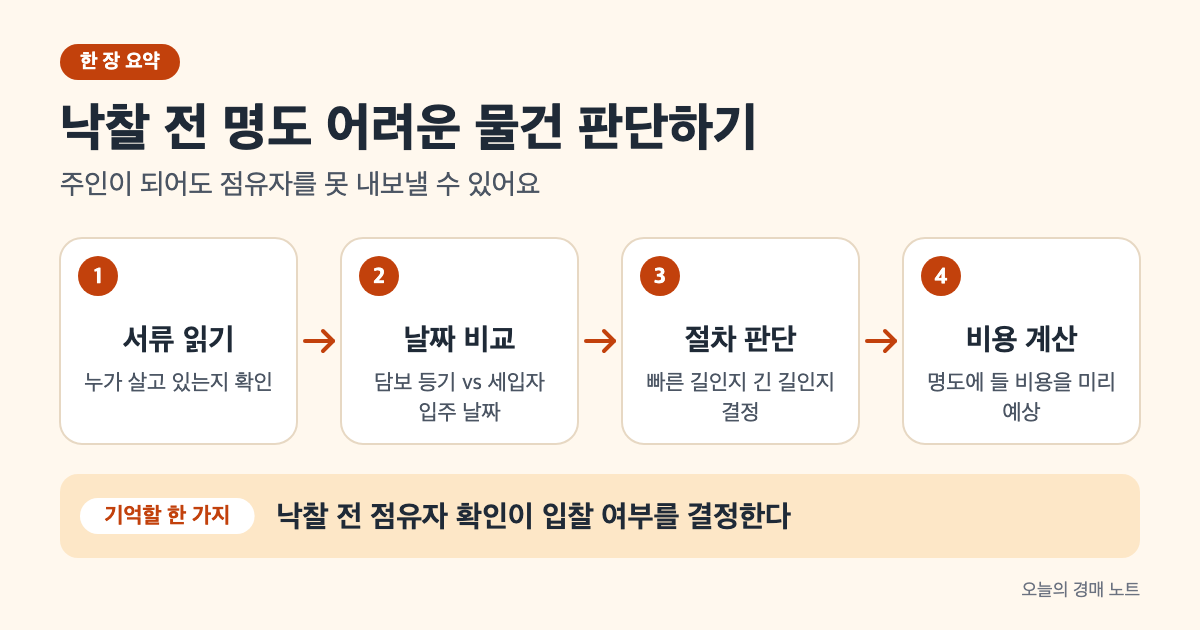
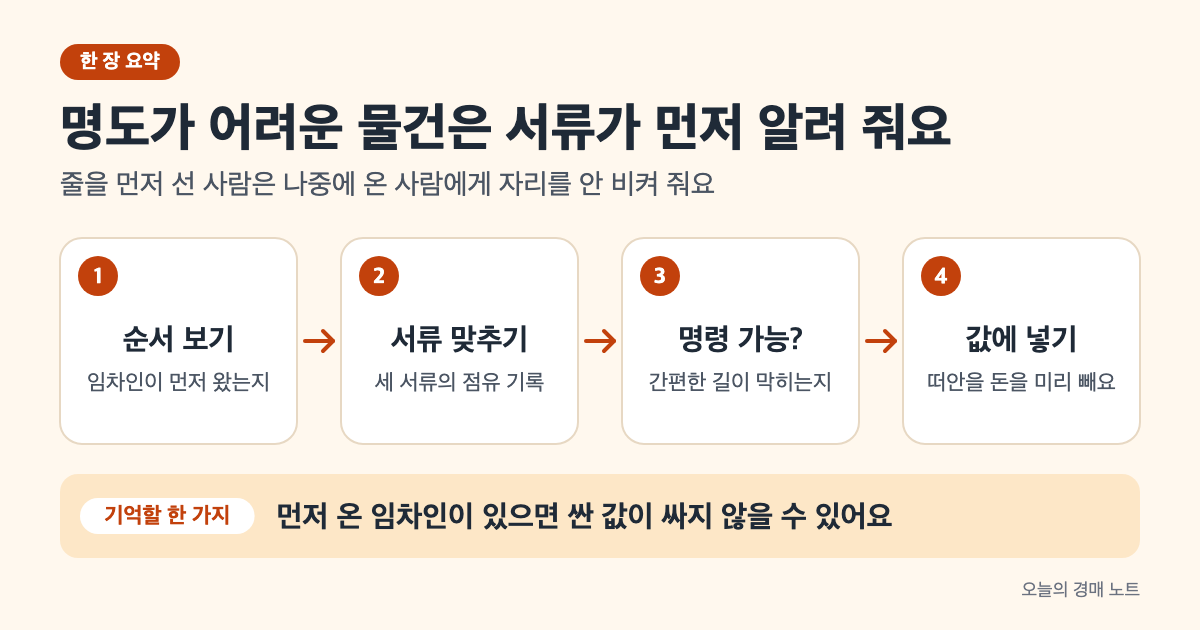
가이드 정리: 명도 어려운 물건 — 대항력 판단 오류 바로잡고 법령·실제 사례로 재작성

diff --git a/content/guide/difficult-eviction-auction-property/index.md b/content/guide/difficult-eviction-auction-property/index.md
@@ -2,124 +2,85 @@
 title: "경매 명도 어려운 물건, 낙찰 전 신호들"
 author: "rich-batch"
 date: 2026-09-19
-lastmod: 2026-09-19
+lastmod: 2026-10-11
 draft: true
 volatile: false
 categories: ["권리분석·명도"]
-tags: ["명도", "경매 위험", "세입자", "강제집행"]
-description: "경매 낙찰 후 명도가 길어지는 물건을 입찰 전에 판단하는 법. 등기부등본·현황조사보고서 읽기와 체크리스트."
+tags: ["명도", "대항력", "임차인", "말소기준권리", "현황조사보고서", "인도명령"]
+description: "명도가 길어지는 물건은 입찰 전에 서류로 드러납니다. 임차인의 전입일과 말소기준권리의 순서, 서류끼리 어긋나는 점유 기록, 인도명령을 쓸 수 없는 경우를 법령과 실제 공매 사례로 봅니다."
 cover:
   image: "eli5-overview.png"
-  alt: "경매 명도 절차의 네 가지 경로를 비유로 보여주는 한 장 요약"
-  caption: "대항력 있는 임차인, 무단점유자, 기간에 따라 절차가 달라지고 비용도 몇 배 차이난다"
+  alt: "전입일 순서, 서류 대조, 인도명령 가능 여부, 입찰가 반영의 네 단계를 화살표로 이은 도식"
+  caption: "명도가 어려운 물건은 입찰 전에 서류에서 먼저 신호를 보냅니다"
 showToc: true
 TocOpen: true
 ---
 
-경매로 집을 사려고 찾아본 물건 중에 낙찰가가 유달리 싼 게 있습니다. 주변 시세의 [30~40%](https://albup.co.kr/page/column_detail.php?content_id=572)에 불과할 때도 있죠. 왜일까요? 대부분은 **현재 거주하는 세입자나 무단점유자 때문입니다.** 당신이 낙찰받아도 그 물건은 여전히 남의 손에 있다는 뜻이고, 명도(비우기)하는 데 수개월이 걸릴 수 있다는 뜻입니다.
+명도가 오래 걸리는 물건은 대부분 입찰 전에 서류에서 신호를 보냅니다. 가장 큰 신호는 집에 사는 임차인이 **말소기준권리보다 먼저** 전입하고 집을 넘겨받았는지예요. 그런 임차인은 대항력이 있어 보증금을 다 돌려받기 전까지 낙찰자에게 집을 내주지 않아도 되고, 낙찰자는 인도명령이라는 간편한 절차도 쓸 수 없습니다([주택임대차보호법 제3조의5](https://www.law.go.kr/법령/주택임대차보호법/제3조의5) · [민사집행법 제136조](https://www.law.go.kr/법령/민사집행법/제136조)).
 
-**이 글의 절차와 비용은 2026년 9월 19일 기준 공식 자료로 확인했습니다.**
-
-낙찰 전에 이 물건이 얼마나 명도하기 어려울지 미리 판단했다면, 그 기간 동안 발생할 비용과 스트레스를 피할 수 있습니다. 그 신호가 뭘까요? 등기부등본의 날짜부터 읽으면 됩니다.
+순서를 반대로 알고 있는 경우가 많아 짚고 갑니다. 근저당이 먼저 설정되고 그 **뒤에** 전입한 임차인은 매각으로 권리가 소멸하는 쪽이에요. 이 글은 2026년 10월 11일 기준 법령과 이 블로그의 실제 분석 사례로 입찰 전에 볼 신호를 정리했고, 낙찰 후 인도명령·강제집행 절차는 [경매 명도 절차, 인도명령부터 집행까지]({{< relref "/guide/auction-eviction-process" >}})에서 다룹니다.
 
 > **핵심 요약**
-> - 낙찰 전에 등기부등본·매각물건명세서·현황조사보고서를 읽고 점유자 정보를 확인하세요
-> - 근저당 설정일 **이후**에 전입한 임차인은 법으로 보호받아 [인도명령 신청이 불가능](https://easylaw.go.kr/CSP/CnpClsMain.laf?csmSeq=306&ccfNo=5&cciNo=1&cnpClsNo=2)합니다
-> - [명도에 5~8개월이 걸리고](https://ujsdp.com/bbs/board.php?bo_table=dp_law&wr_id=5535) [강제집행 비용만 200~500만 원 이상](https://albup.co.kr/page/column_detail.php?content_id=572) 들기도 합니다
+> - 임차인의 전입일(정확히는 다음 날)이 말소기준권리보다 빠르면 대항력이 있어, 못 받은 보증금은 낙찰자가 떠안고 인도명령도 쓸 수 없습니다.
+> - 매각물건명세서·현황조사보고서·전입세대확인서의 점유 기록이 서로 어긋나면 그 자체가 신호입니다.
 
-## 명도 어려운 물건을 말하는 신호들
+## 첫 신호: 전입일이 말소기준권리보다 빠른가
 
-낙찰가가 현저히 낮으면, 보통 명도 때문입니다. 첫 번째 신호는 **근저당 설정일과 임차인 전입일의 순서**입니다.
+주택 임차인은 집을 넘겨받고 전입신고를 마치면 **그 다음 날**부터 제3자에게 임차권을 주장할 수 있습니다([주택임대차보호법 제3조](https://www.law.go.kr/법령/주택임대차보호법/제3조)). 경매에서 이 "제3자"가 낙찰자인지는 말소기준권리와의 선후로 갈려요. 저당권은 매각으로 모두 소멸하고, 저당권·압류·가압류에 대항할 수 없는 권리도 함께 소멸하기 때문입니다([민사집행법 제91조](https://www.law.go.kr/법령/민사집행법/제91조)).
 
-근저당(은행이 돈을 빌려주고 담보로 잡는 권리)이 설정된 **[이후에 전입한 세입자는 법으로 보호받습니다.](https://www.law.go.kr/법령/민사집행법/제136조)** '[대항력 있는 임차인](https://easylaw.go.kr/CSP/CnpClsMain.laf?csmSeq=306&ccfNo=5&cciNo=1&cnpClsNo=2)'이라고 부르는 이들은, 낙찰자가 와도 법정 절차 없이는 못 내보냅니다. 소송부터 강제집행까지 6개월 이상 걸린다는 뜻입니다.
-
-근저당 설정 **이전**에 전입한 세입자는 다릅니다. 이들은 '인도명령'이라는 간편한 절차로 [2~4주](https://ujsdp.com/bbs/board.php?bo_table=dp_law&wr_id=5535) 안에 명도할 수 있습니다.
-
-두 번째 신호는 **매각물건명세서에 적힌 '현황' 항목**입니다. "세입자 거주"라고 명시되면, 누군가 실제로 그 집에 살고 있다는 뜻입니다. 전입세대열람으로 그들의 이름과 입주일자를 확인할 수 있습니다.
-
-세 번째 신호는 **무단점유의 가능성**입니다. 매각물건명세서에 세입자 정보가 없는데 현황조사보고서에 "점유자 있음"이라고 적혀 있다면, 그들은 임대차계약 없이 불법점유하고 있는 것일 수 있습니다. 이 경우는 가장 복잡합니다. 임차인 권리가 없으므로 빨리 내보낼 수 있지만, 동의가 없으면 결국 법정 절차를 거쳐야 합니다.
-
-## 입찰 전 확인하는 3가지 서류
-
-당신이 할 일은 세 가지 서류를 차례로 읽는 것입니다. 모두 법원경매정보시스템(courtauction.go.kr)에서 무료로 다운로드할 수 있습니다.
-
-**첫째, 등기부등본**. 정본을 받되, "현재등기부"가 아니라 "개정전등기부등본"을 함께 받으세요. 여기서 근저당 설정일과 그 뒤의 권리 변동 기록(특히 임차인 등기)을 순서대로 따릅니다. 날짜 순서가 중요합니다.
-
-**둘째, 매각물건명세서**. 법원이 만드는 공식 문서로, 그 물건의 현황(누가 살고 있는지, 관리비는 밀려 있는지)을 요약했습니다. "점유 현황" 항목에서 세입자 이름·입주일자·임차금을 확인하세요.
-
-**셋째, 현황조사보고서**. 감정평가사가 직접 현장을 방문해 작성합니다. 사진도 있고, 실제 점유자의 생활 흔적을 담고 있습니다. 명시적으로 "점유자 있음"이라고 적혀 있으면, 세입자가 정말 살고 있다는 뜻입니다.
-
-이 세 서류가 일치하면 좋습니다. 그런데 세 곳에 다른 정보가 적혀 있으면 위험 신호입니다. 예를 들어, 매각물건명세서에는 "점유자 없음"이라고 했는데 현황조사에 "주민 거주 중"이라고 적혀 있으면, 최근에 누군가가 들어온 것일 가능성이 높습니다.
-
-## 그래서 어떤 절차를 밟나요? 인도명령 vs 명도소송
-
-낙찰 후 밟을 절차는 입찰 전부터 정해집니다. 두 가지 길이 있습니다.
-
-| 구분 | 인도명령 신청 | 명도소송 |
+| 순서 | 임차인의 지위 | 낙찰자에게 미치는 영향 |
 |---|---|---|
-| **적용 조건** | 대항력 없는 점유자만 가능 | [6개월 초과](https://ujsdp.com/bbs/board.php?bo_table=dp_law&wr_id=5535) 또는 대항력 있는 임차인 |
-| **기간** | [2~4주](https://ujsdp.com/bbs/board.php?bo_table=dp_law&wr_id=5535) | [5~6개월](https://albup.co.kr/page/column_detail.php?content_id=572) |
-| **신청 기한** | 낙찰 후 [6개월 이내](https://www.law.go.kr/법령/민사집행법/제136조) | 제한 없음 |
-| **비용(예납금)** | 약 2,000원 + 송달료 | [100만~300만 원](https://albup.co.kr/page/column_detail.php?content_id=572) |
+| 말소기준권리 → 임차인 전입 | 대항력 없음, 매각으로 임차권 소멸 | 보증금 인수 없음, 인도명령 대상 |
+| 임차인 전입(다음 날) → 말소기준권리 | 대항력 있음 | 보증금을 다 돌려받지 못하면 그 부분을 낙찰자가 인수, 인도명령 불가 |
 
-출처: [민사집행법 제136조](https://www.law.go.kr/법령/민사집행법/제136조), [ujsdp.com](https://ujsdp.com/bbs/board.php?bo_table=dp_law&wr_id=5535), [albup.co.kr](https://albup.co.kr/page/column_detail.php?content_id=572) (2026년 9월 기준)
+출처: [주택임대차보호법 제3조·제3조의5](https://www.law.go.kr/법령/주택임대차보호법/제3조의5) · [민사집행법 제91조·제136조](https://www.law.go.kr/법령/민사집행법/제91조) (2026년 10월 11일 기준)
 
-이 차이가 중요한 이유는 간단합니다. 대항력 있는 임차인이 있으면 인도명령은 꿈도 못 꾼다는 뜻이거든요. 처음부터 긴 소송을 각오해야 합니다.
+대항력 있는 임차인이 배당을 요구해 보증금 전액을 배당받으면 임차권은 소멸하고 문제가 깔끔해집니다. 경매로 소멸하지 않는 건 "보증금이 모두 변제되지 아니한, 대항력이 있는 임차권"뿐이거든요([주택임대차보호법 제3조의5](https://www.law.go.kr/법령/주택임대차보호법/제3조의5)). 그래서 대항력 있는 임차인이 보인다면 다음 질문은 "배당요구를 했는가, 했다면 배당 순위상 다 받을 수 있는가"입니다. 배당요구는 우선변제권이 있는 채권자가 할 수 있고, 배당요구의 종기가 지나면 철회할 수 없어요([민사집행법 제88조](https://www.law.go.kr/법령/민사집행법/제88조)).
 
-## 강제집행: 판결 후에도 나가지 않으면
+## 실제 사례: 고덕어반브릿지의 임차인
 
-인도명령이나 명도소송에서 이겨도, 점유자가 자진하지 않으면 강제집행이 필요합니다. 집행관이 현장에 가서 [**1~2주의 자진 퇴거 기간**](https://albup.co.kr/page/column_detail.php?content_id=572)을 주고, 그래도 안 나가면 짐을 강제 반출합니다.
+이 블로그가 분석한 [서울 강동구 이편한세상고덕어반브릿지 공매]({{< relref "/analysis/onbid-202610100001" >}})가 이 신호를 그대로 보여 줍니다. 임차인은 2024년 10월 11일 전입해, 말소기준권리인 2024년 12월 19일 가압류보다 앞서 대항력을 갖췄고, 보증금 5억 4,000만 원 전액으로 배분요구를 했어요([온비드](https://www.onbid.co.kr/) 공고의 배분요구 현황 기준). 계산 도구는 이 임차인을 "배당받지 못한 보증금은 매수인 인수"로 판정하고, 인수 예상액을 0원에서 5억 4,000만 원 사이로 남겼습니다. 실제 배당 순위와 부족액은 배당표가 나와야 확정되기 때문이에요.
 
-**가장 크게 드는 비용들(** [2026년 기준](https://albup.co.kr/page/column_detail.php?content_id=572) **):**
-- [법원 예납금: 100만~300만 원](https://albup.co.kr/page/column_detail.php?content_id=572)
-- [이사업체 비용: 50만~200만 원](https://albup.co.kr/page/column_detail.php?content_id=572)
-- [물품 보관료: 월 10만~30만 원](https://albup.co.kr/page/column_detail.php?content_id=572)
-- **[합계: 200만~500만 원 이상](https://albup.co.kr/page/column_detail.php?content_id=572)**
+이런 물건은 가격이 싸 보여도 두 가지를 각오해야 합니다. 배당에서 보증금이 덜 나오면 그 차액을 낙찰자가 내야 하고, 그 돈을 받기 전까지 임차인은 집을 비워 줄 의무가 없어요. 이 물건은 2026년 10월 8일 응찰자 2명으로 13억 177만 7,777원에 매각됐는데([온비드](https://www.onbid.co.kr/) 입찰 결과), 낙찰자는 이 인수 가능성을 입찰가에 반영했어야 하는 셈입니다.
 
-거기에 저항하거나 다시 들어오면 재집행도 있습니다([2026년 기준](https://albup.co.kr/page/column_detail.php?content_id=572)). [경험 추가 필요: 강제집행을 직접 경험한 경우, 예상 밖의 추가 비용이나 기간]. 많은 낙찰자가 이 단계에서 포기합니다. 돈도 오래 들고, 스트레스도 크니까요.
+## 두 번째 신호: 서류끼리 점유 기록이 어긋난다
 
-## 이사비를 주는 게 싼 이유
+입찰 전에 맞춰 볼 서류는 세 가지입니다. 매각물건명세서는 점유자와 점유 권원, 차임·보증금에 관한 관계인의 진술을 법원이 적는 문서이고([민사집행법 제105조](https://www.law.go.kr/법령/민사집행법/제105조)), 현황조사보고서는 법원의 명령으로 **집행관**이 부동산의 현상과 점유관계, 차임·보증금을 조사해 쓴 보고서예요([민사집행법 제85조](https://www.law.go.kr/법령/민사집행법/제85조)). 여기에 주민센터에서 떼는 전입세대확인서가 더해집니다. 경매에 참가하려는 사람은 이 서류의 열람·교부를 신청할 수 있어요([주민등록법 제29조의2](https://www.law.go.kr/법령/주민등록법/제29조의2)).
 
-현명한 낙찰자들은 처음부터 점유자와 협상합니다. "자진해서 나가주면 이사비를 드리겠습니다"라고요. 왜 그럴까요?
+세 서류의 기록이 맞지 않으면 그 자체가 신호입니다. 명세서에는 임차인이 없는데 전입세대확인서에 다른 세대가 있거나, 현황조사 때는 소유자가 살았는데 지금 다른 사람이 산다면, 조사 이후 누군가 들어왔거나 서류에 드러나지 않은 점유가 있다는 뜻이에요. 현황조사보고서에 점유자를 만나지 못했다는 취지가 적혀 있는 경우도 점유 관계를 서류로 확인하지 못한 상태라 같은 무게로 봐야 합니다.
 
-[강제집행까지 가면 200~500만 원이 들어갑니다.](https://albup.co.kr/page/column_detail.php?content_id=572) 점유자에게 [이사비 300~500만 원을 주고 자진 퇴거를 받으면](https://smartnest.co.kr/done/199), 비용이 비슷해도 **시간이 훨씬 빠릅니다.** 강제집행 중 물품 손상, 재집행, 변호사 비용까지 고려하면 협상이 훨씬 싼 경우가 많습니다.
+## 세 번째 신호: 인도명령을 쓸 수 없는 경우
 
-[경험 추가 필요: 이사비 협상으로 명도를 앞당긴 경우, 협상 과정과 실제 결과].
+낙찰 후 점유자를 내보내는 가장 빠른 길은 인도명령이지만, 늘 쓸 수 있는 건 아닙니다. 법원 경매에서 매수인은 대금을 낸 뒤 6개월 안에 채무자·소유자·점유자를 상대로 인도명령을 신청할 수 있는데, 점유자가 매수인에게 대항할 수 있는 권원을 가진 경우는 빠져요([민사집행법 제136조](https://www.law.go.kr/법령/민사집행법/제136조)). 위 표의 대항력 있는 임차인이 바로 여기에 해당합니다.
 
-더 중요한 건 **기회비용**입니다. [강제집행까지 가는 데 7~9개월](https://ujsdp.com/bbs/board.php?bo_table=dp_law&wr_id=5535)([소송 6개월](https://albup.co.kr/page/column_detail.php?content_id=572) + 집행 1~2개월 + 행정)이 걸립니다. 그 동안 당신은 그 집에 못 들어가고, 원래 살던 집의 주택담보대출 이자는 계속 납니다. 이사비 500만 원으로 이 기간을 줄인다면? 계산해보면 판단이 달라집니다.
+공매 물건이라면 더 조심해야 합니다. 인도명령은 민사집행법의 경매 절차에 있는 제도이고, 세금 체납 압류재산 공매의 절차를 정한 국세징수법에는 같은 제도가 없어요([국세징수법 제91조](https://www.law.go.kr/법령/국세징수법/제91조)는 대금 완납으로 소유권을 얻는다는 데서 끝납니다). 점유자가 스스로 나가지 않으면 처음부터 명도소송을 내야 하니, 같은 점유 상황이라도 공매가 시간이 더 걸릴 수 있습니다.
 
-## 낙찰 전 최종 체크리스트
-
-입찰하기 전에 다음을 모두 확인하세요.
-
-**등기부등본**에서 근저당 설정일을 찾고, **전입세대열람**으로 현재 세입자의 이름과 입주일을 확인하세요. 두 날짜를 비교해 누가 먼저인지 확인합니다. 설정일이 먼저면 인도명령으로 빨리 끝낼 수 있고, 임차인이 먼저면 긴 소송을 각오해야 합니다.
-
-**매각물건명세서**의 "점유 현황" 항목과 **현황조사보고서**의 사진을 읽어 세 서류(등기부·명세서·현황조사)가 모두 같은 점유자를 기록하고 있는지 확인합니다. 세 곳의 정보가 다르면 최근에 누군가 새로 들어왔다는 뜻이므로 주의하세요.
-
-**만약 세입자가 있다면**, 명도에 들 비용(강제집행만 해도 [200~500만 원](https://albup.co.kr/page/column_detail.php?content_id=572))과 [7~9개월](https://ujsdp.com/bbs/board.php?bo_table=dp_law&wr_id=5535)의 시간을 낙찰가 결정에 반영해야 합니다.
+명도에 드는 집행 비용과 기간은 공식 자료에 정해진 금액이 없습니다. 그래서 저는 위 세 신호 가운데 하나라도 보이면, 인수할 수 있는 보증금은 입찰가에서 그대로 빼고, 명도소송까지 갈 수 있는 기간 동안의 자금 부담을 따로 계산해 둔 뒤에 입찰가를 정하는 게 맞다고 봅니다.
 
 ## 자주 묻는 질문
 
-### Q. 현황조사보고서가 없는 물건도 있나요?
-네. 특히 오래된 경매 물건이나 긴급경매 건에서는 현황조사를 건너뛸 수 있습니다. 그럴 땐 **매각물건명세서**만 의존해야 하는데, 이미 정보가 부족합니다. 특히 주의하세요.
+### Q. 근저당보다 늦게 들어온 임차인은 걱정하지 않아도 되나요?
 
-### Q. 전입세대열람은 누구나 할 수 있나요?
-무료로는 아니고, [열람료 2,000~3,000원을 내야 합니다.](https://easylaw.go.kr/CSP/CnpClsMain.laf?csmSeq=306&ccfNo=5&cciNo=1&cnpClsNo=2) 법원경매정보시스템에서 해당 주민센터로 신청하거나, 직접 방문해도 됩니다. 입찰 전에 반드시 해야 할 일입니다.
+보증금 인수 측면에서는 그렇습니다. 말소기준권리보다 늦게 대항요건을 갖춘 임차권은 매각으로 소멸하고([민사집행법 제91조](https://www.law.go.kr/법령/민사집행법/제91조)), 법원 경매라면 인도명령 대상이 됩니다. 다만 실제로 집을 비우는 데 걸리는 시간은 점유자의 협조에 달려 있어서, 협의가 안 되면 인도명령과 집행 절차를 밟아야 해요.
 
-### Q. 근저당이 없으면 점유자 문제도 없나요?
-아닙니다. 근저당이 없어도 세입자는 있을 수 있습니다. 이 경우 그 세입자가 대항력이 있는지 없는지를 판단하는 게 어렵습니다. 법원 판결이 나야 확실하게 알 수 있기도 합니다. 복잡할 땐 변호사 상담을 받으세요.
+### Q. 전입세대확인서는 누구나 뗄 수 있나요?
 
-### Q. "명도 안 할 물건"이라고 해서 입찰을 포기해야 하나요?
-꼭 그렇지는 않습니다. 가격 전략을 달리 세워야 합니다. 명도에 들 비용과 기간을 계산한 뒤, 낙찰가를 그만큼 깎을 수 있는지 판단하는 거죠. 예: 시세 5억 원, 낙찰가 2억 원이면, 그 3억 원 차이가 정말 명도 비용([강제집행 500만 원](https://albup.co.kr/page/column_detail.php?content_id=572) + 소송비 등)과 [7~9개월 기회비용](https://ujsdp.com/bbs/board.php?bo_table=dp_law&wr_id=5535)으로 충분한지 계산해봐야 합니다.
+정해진 사람만 신청할 수 있고, 경매에 참가하려는 사람이 그 가운데 하나입니다([주민등록법 제29조의2](https://www.law.go.kr/법령/주민등록법/제29조의2)). 신청할 때 신분증명서와 경매 참가자임을 증명하는 서류를 내야 해요([주민등록법 시행령 제49조의2](https://www.law.go.kr/법령/주민등록법시행령/제49조의2)).
 
-### Q. 인도명령 6개월 기한을 놓치면?
-그럼 명도소송으로 가야 하고, [5~6개월을 다시 기다려야 합니다.](https://albup.co.kr/page/column_detail.php?content_id=572) 절차가 완전히 달라집니다. 낙찰받은 뒤 **첫 1주일 내에** 소유권이전등기를 완료하고 [인도명령을 신청해야](https://www.law.go.kr/법령/민사집행법/제136조) 이 6개월의 골든타임을 확보할 수 있습니다.
+### Q. 대항력 있는 임차인이 배당요구를 했으면 안전한가요?
+
+보증금 전액을 배당받으면 임차권이 소멸하니 그 경우엔 안전합니다([주택임대차보호법 제3조의5](https://www.law.go.kr/법령/주택임대차보호법/제3조의5)). 문제는 배당 순위상 다 받지 못할 때로, 그 부족액은 낙찰자가 인수해요. 고덕어반브릿지처럼 배당표가 나오기 전에는 금액이 확정되지 않으니, 최악의 경우(전액 인수)를 기준으로 입찰가를 계산해 보는 게 안전합니다.
 
 ## 참고 자료
 
-- [찾기쉬운생활법령 · 부동산 경매 > 소유권 방어를 위한 조치](https://easylaw.go.kr/CSP/CnpClsMain.laf?csmSeq=306&ccfNo=5&cciNo=1&cnpClsNo=2) — 인도명령의 법률 조건과 기한, 2026년 9월 기준 현행
-- [민사집행법 제136조](https://www.law.go.kr/법령/민사집행법/제136조) — 인도명령 신청 기한 법문
-- [albup.co.kr · 경매 낙찰 후 점유자 명도 절차](https://albup.co.kr/page/column_detail.php?content_id=572) — 인도명령과 명도소송의 실무 비교, 강제집행 비용 상세 설명 (2026년 9월 기준)
-- [법도 명도소송센터 · 경매 인도명령 6개월 골든타임](https://ujsdp.com/bbs/board.php?bo_table=dp_law&wr_id=5535) — 인도명령 절차와 기간, 6개월 기한의 중요성 (2026년 9월 기준)
-- [smartnest.co.kr · 경매 명도 협의에서 이사비를 주는 것의 이점](https://smartnest.co.kr/done/199) — 이사비 협상으로 비용 절감하는 전략 (2026년 9월 기준)
-- [법도 명도소송센터 · 경매 명도절차 완전정복](https://www.ujsdp.com/bbs/board.php?bo_table=dp_law&wr_id=3310) — 인도명령부터 강제집행까지 전 절차 가이드 (2026년 9월 기준)
+- [주택임대차보호법 제3조 · 대항력 등](https://www.law.go.kr/법령/주택임대차보호법/제3조) — 주택 인도와 주민등록을 마친 다음 날부터 대항력 (2026-10-11 확인)
+- [주택임대차보호법 제3조의5 · 경매에 의한 임차권의 소멸](https://www.law.go.kr/법령/주택임대차보호법/제3조의5) — 보증금이 다 변제되지 않은 대항력 있는 임차권은 소멸하지 않음 (2026-10-11 확인)
+- [민사집행법 제85조 · 현황조사](https://www.law.go.kr/법령/민사집행법/제85조) — 집행관이 점유관계·보증금 등을 조사 (2026-10-11 확인)
+- [민사집행법 제88조 · 배당요구](https://www.law.go.kr/법령/민사집행법/제88조) — 우선변제청구권자의 배당요구, 종기 후 철회 불가 (2026-10-11 확인)
+- [민사집행법 제91조 · 인수주의와 잉여주의의 선택 등](https://www.law.go.kr/법령/민사집행법/제91조) — 저당권 소멸, 대항할 수 없는 권리 소멸 (2026-10-11 확인)
+- [민사집행법 제105조 · 매각물건명세서 등](https://www.law.go.kr/법령/민사집행법/제105조) — 점유자·점유 권원·보증금 진술 기재 (2026-10-11 확인)
+- [민사집행법 제136조 · 부동산의 인도명령 등](https://www.law.go.kr/법령/민사집행법/제136조) — 대금 납부 후 6개월, 대항 권원 있는 점유자 제외 (2026-10-11 확인)
+- [국세징수법 제91조 · 매수대금 납부의 효과](https://www.law.go.kr/법령/국세징수법/제91조) — 공매재산은 매수대금 완납 시 취득 (2026-10-11 확인)
+- [주민등록법 제29조의2 · 전입세대확인서의 열람 또는 교부](https://www.law.go.kr/법령/주민등록법/제29조의2) — 경매참가자의 신청 자격 (2026-10-11 확인)
+- [온비드](https://www.onbid.co.kr/) — 고덕어반브릿지 공매 공고의 배분요구 현황과 입찰 결과 (2026-10-11 확인)
+- [주민등록법 시행령 제49조의2](https://www.law.go.kr/법령/주민등록법시행령/제49조의2) — 신청 시 제출 서류 (2026-10-11 확인)

diff --git a/pipeline/guide/research/difficult-eviction-auction-property.md b/pipeline/guide/research/difficult-eviction-auction-property.md
@@ -29,22 +29,6 @@
 | 4 | "경매 명도 협의에서 이사비" smartnest.co.kr | 이사비 협상의 이점 | 충분한 수치와 근거 부족 |
 | 5 | "낙찰 전 점유자 확인" sanisanee.com | 점유자 유형별 대처(채무자/임차인/무단점유), 근저당 설정일 vs 전입일 비교 중요성 | 명도 절차와 비용 연결 부족 |
 
-차별점:
-
-1. **낙찰 전 판단 프레임워크**: "명도 어려운 물건"의 신호들을 쉽게 체크하는 방법. 기존 글은 낙찰 후 절차만 설명하지만, 이 글은 "입찰하기 전에 이 물건이 명도 문제를 일으킬지 미리 판단하는 법"을 보여줌
-   - 등기부등본 읽기 (근저당 설정일 vs 임차인 전입일 비교)
-   - 매각물건명세서와 현황조사보고서 해석
-   - 대항력 있는 임차인 vs 무단점유자 판별
-
-2. **명도 어려운 물건의 현실적 원가**: 단순 "200~500만 원" 외에 항목별 비용 상세화
-   - 인도명령 시: 예납금 vs 명도소송 시: 예납금
-   - 강제집행 추가비용
-   - 더블 주택비(점유 기간 동안 원래 집 임차료나 모기지)
-   - 실제 낙찰가와의 관계
-
-3. **비용 절감 현실론**: 법정 절차보다 협상으로 이사비를 주는 게 왜 싼지 계산과 수치 제시
-
-4. **구글 1페이지와 다른 각도**: 기존 경쟁 글들은 "명도 절차를 어떻게 하는가"에 초점. 이 글은 "명도가 필요한 물건을 어떻게 미리 알아채는가"에 초점. 검색자의 실제 고민("이 물건 괜찮나?" → 입찰 결정)을 해결
 
 ## 확인한 사실
 
@@ -79,3 +63,30 @@
 - 기존 절차형 글들(albup, ujsdp 등)과 보완 관계. 겹치지 않음
 - 검색 의도(실행형) 충족 가능: "이 물건이 명도 어려울 것 같은데, 내가 미리 뭘 확인해야 하나?"
 - 경험 자리: 2~3곳 (실제 명도 소송/협상 경험, 특정 물건의 명도 난제 사례)
+
+## 차별점
+
+차별점:
+- 이전 초안과 상당수 블로그가 "근저당 이후 전입한 임차인이 보호받는다"고 거꾸로 적는데, 주택임대차보호법 제3조·제3조의5와 민사집행법 제91조 원문으로 순서를 바로잡음
+- 현황조사보고서 작성자를 감정평가사로 잘못 쓰는 오류를 민사집행법 제85조(집행관)로 바로잡음
+- 이 블로그가 실제로 분석한 고덕어반브릿지 공매(대항력 있는 임차인, 보증금 5억 4천만 원 배분요구)로 인수 범위가 0~보증금으로 남는 이유를 보여 줌
+- 출처 없는 기간·비용 수치(명도 5~8개월, 강제집행 200~500만 원 등)를 싣지 않고, 이미 공개된 명도 절차 글과 범위를 나눔(이 글은 입찰 전 신호)
+
+## 2026-10-11 고쳐쓰기 — 공식 원문으로 전면 재작성 (이전 출처 albup.co.kr·ujsdp.com·smartnest.co.kr는 허용 출처 아님)
+
+| # | 확인한 내용 | 원문 인용 | 출처 | URL | 읽은 방법 |
+|---|---|---|---|---|---|
+| R1 | 주택 인도+주민등록 다음 날부터 대항력 | "임차인이 주택의 인도와 주민등록을 마친 때에는 그 다음 날부터 제삼자에 대하여 효력이 생긴다" | 주택임대차보호법 제3조 | https://www.law.go.kr/법령/주택임대차보호법/제3조 | law.go.kr DRF API |
+| R2 | 경매로 임차권 소멸, 단 보증금 미변제 대항력 임차권은 예외 | "보증금이 모두 변제되지 아니한, 대항력이 있는 임차권은 그러하지 아니하다" | 주택임대차보호법 제3조의5 | https://www.law.go.kr/법령/주택임대차보호법/제3조의5 | law.go.kr DRF API |
+| R3 | 저당권 매각으로 소멸, 저당권·압류·가압류에 대항 못 하는 권리 소멸 | "매각부동산 위의 모든 저당권은 매각으로 소멸된다" | 민사집행법 제91조 | https://www.law.go.kr/법령/민사집행법/제91조 | law.go.kr DRF API |
+| R4 | 현황조사는 집행관 | "집행관에게 부동산의 현상, 점유관계, 차임 또는 보증금의 액수 ... 조사하도록 명하여야 한다" | 민사집행법 제85조 | https://www.law.go.kr/법령/민사집행법/제85조 | law.go.kr DRF API |
+| R5 | 배당요구 자격, 종기 후 철회 불가 | "배당요구의 종기가 지난 뒤에 이를 철회하지 못한다" | 민사집행법 제88조 | https://www.law.go.kr/법령/민사집행법/제88조 | law.go.kr DRF API |
+| R6 | 매각물건명세서 기재 사항 | "부동산의 점유자와 점유의 권원 ... 차임 또는 보증금에 관한 관계인의 진술" | 민사집행법 제105조 | https://www.law.go.kr/법령/민사집행법/제105조 | law.go.kr DRF API |
+| R7 | 인도명령: 대금 납부 후 6개월, 대항 권원 있는 점유자 제외 | (조문 본문) | 민사집행법 제136조 | https://www.law.go.kr/법령/민사집행법/제136조 | law.go.kr DRF API |
+| R8 | 공매재산은 매수대금 완납 시 취득 — 국세징수법에 인도명령 조문 없음 | "매수인은 매수대금을 완납한 때에 공매재산을 취득한다" | 국세징수법 제91조 | https://www.law.go.kr/법령/국세징수법/제91조 | law.go.kr DRF API(전체 조문 확인) |
+| R9 | 전입세대확인서 경매참가자 신청 자격, 제출 서류 | "경매참가자가 경매에 참가하려는 경우" | 주민등록법 제29조의2·시행령 제49조의2 | https://www.law.go.kr/법령/주민등록법/제29조의2 , https://www.law.go.kr/법령/주민등록법시행령/제49조의2 | law.go.kr DRF API |
+| 공고 | 온비드 물건 상세 "배분요구 및 채권신고현황"(2026-09-27 조회)과 입찰 결과(2026-10-11 조회) | — | 온비드 | https://www.onbid.co.kr/ | 도구 조회(fetch-onbid, fetch-onbid-result) |
+| 사례 | 고덕어반브릿지: 임차인 전입 2024-10-11, 말소기준 2024-12-19 가압류, 보증금 5.4억 배분요구(2026-06-25), 계산 결과 인수 0~5.4억, 2026-10-08 응찰 2명 13억 177만 7,777원 매각 | 이 블로그 사건 데이터(data/cases/onbid-202610100001.json) | — | — | 데이터 |
+
+### 확인하지 못한 것
+- 명도 기간·강제집행 비용의 공식 수치(정액 없음)
